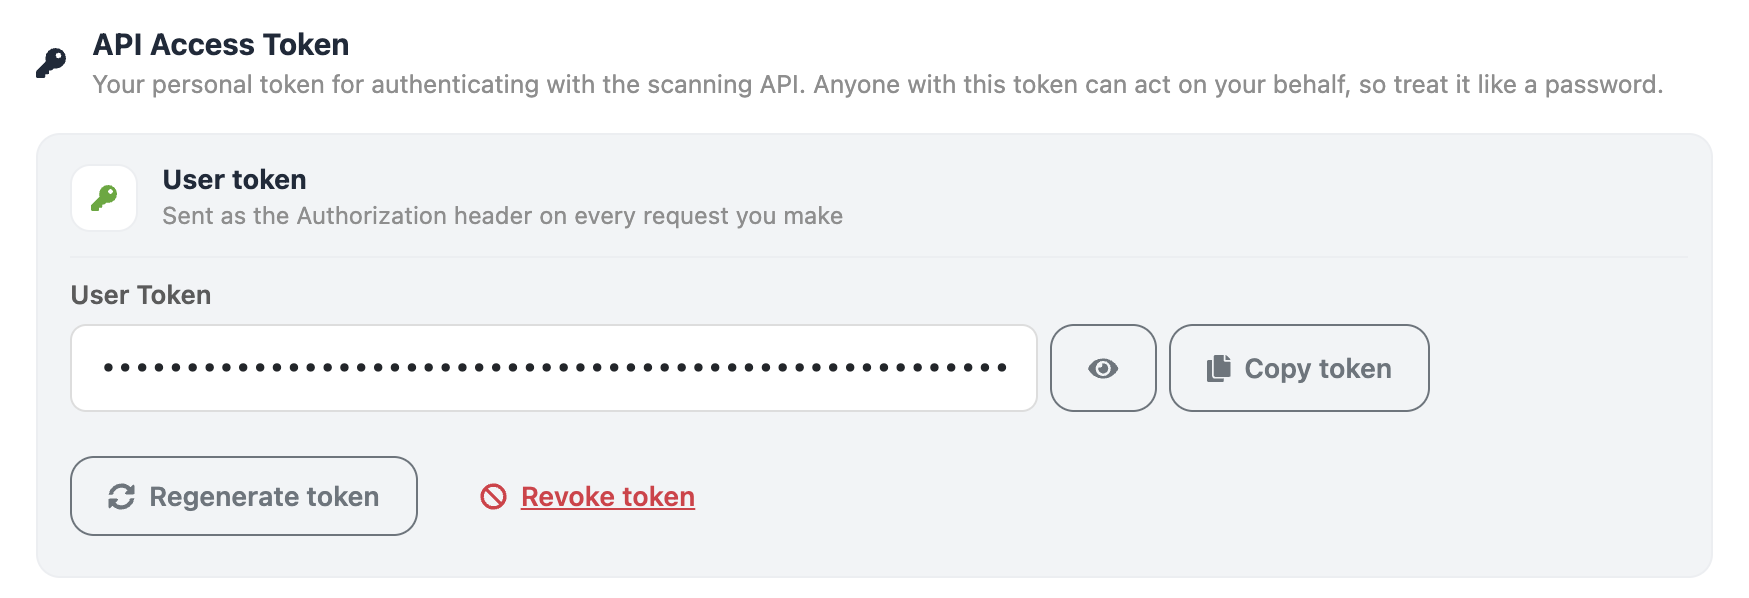
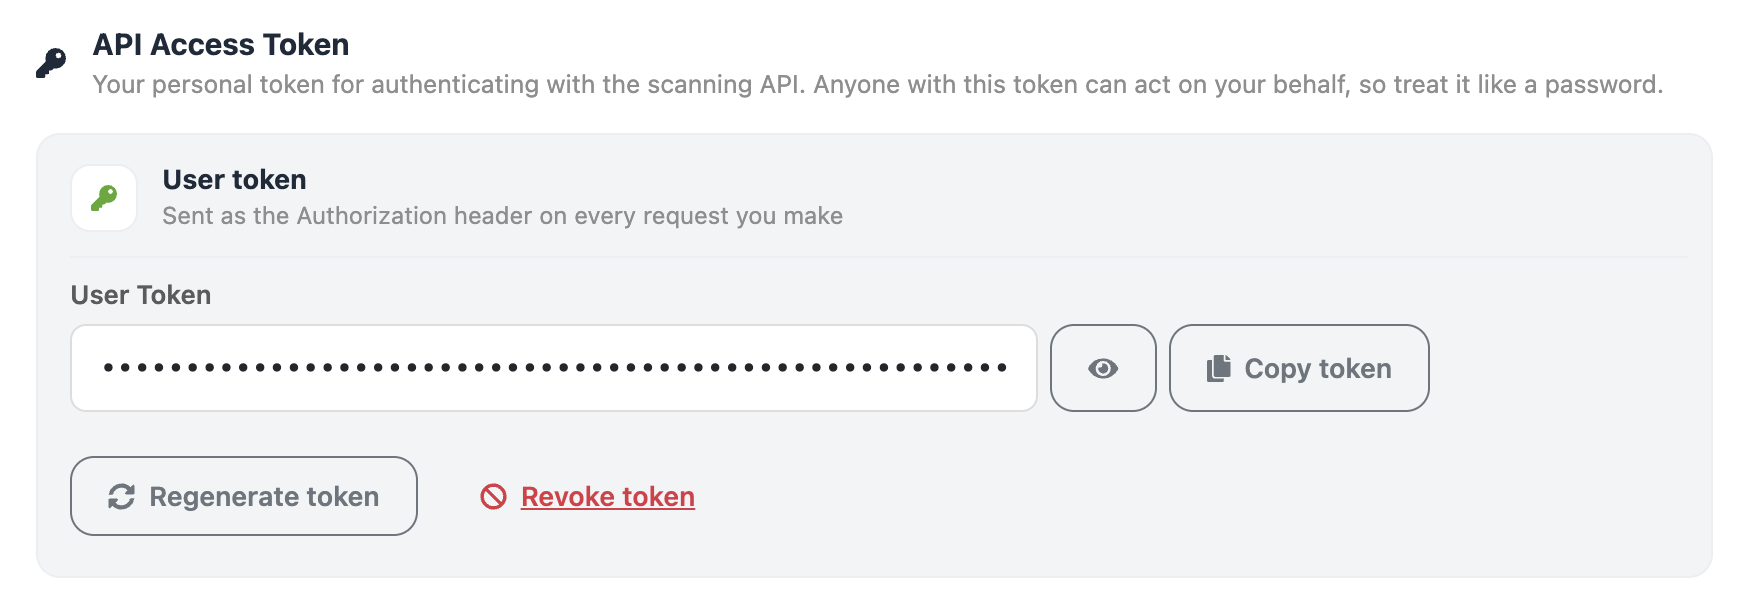
Settings: fix stretched step 2 screenshots
Use a new class so a cached old stylesheet (width: 600px) cannot distort them,
and show them at their natural Retina size.

diff --git a/css/admin_settings.css b/css/admin_settings.css
@@ -64,7 +64,7 @@
         font-size: 14px;
     }
 
-    .cgss-settings-token-img {
+    .cgss-settings-step2-img {
         display: block;
         max-width: 100%;
         height: auto;

diff --git a/views/admin_settings.php b/views/admin_settings.php
@@ -41,9 +41,9 @@
             <div class="cgss-settings-token">
                 <h2 class="cgss-settings-token-title">Step 2: Gather your Token & Key</h2>
                 <p class="cgss-settings-token-text">a) Copy your User Token from the scanning portal.</p>
-                <img class="cgss-settings-token-img" src="<?php echo esc_url( plugins_url( '../img/settings-step-2-token.png', __FILE__ ) ); ?>" width="700" height="239" alt="The User token section in the scanning portal, with the Copy token button" />
+                <img class="cgss-settings-step2-img" src="<?php echo esc_url( plugins_url( '../img/settings-step-2-token.png', __FILE__ ) ); ?>" width="875" height="299" alt="The User token section in the scanning portal, with the Copy token button" />
                 <p class="cgss-settings-token-text">b) Copy the API Key.</p>
-                <img class="cgss-settings-token-img" src="<?php echo esc_url( plugins_url( '../img/settings-step-2-key.png', __FILE__ ) ); ?>" width="562" height="210" alt="The API Key field in the scanning portal, with the Copy token button" />
+                <img class="cgss-settings-step2-img" src="<?php echo esc_url( plugins_url( '../img/settings-step-2-key.png', __FILE__ ) ); ?>" width="703" height="262" alt="The API Key field in the scanning portal, with the Copy token button" />
             </div>
 
             <form class="cgss-settings-form ajax_form" action="admin-ajax.php" method="post">
